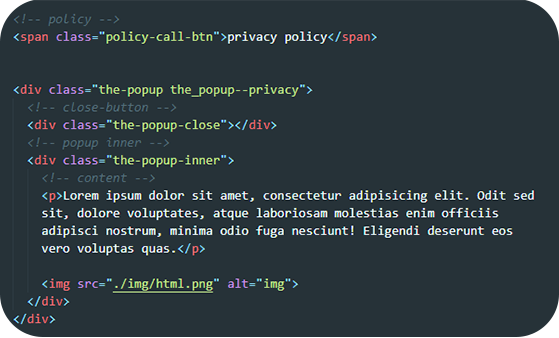
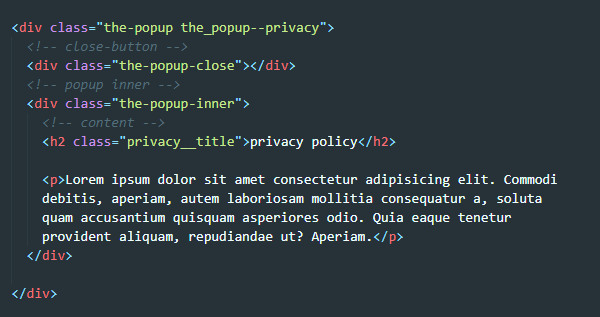
img

Changed region(s): [[0.0, 0.2555, 1.0, 1.0], [0.0, 0.0, 0.6691, 0.2271], [0.9428, 0.0, 1.0, 0.0852]]

diff --git a/#src/index.html b/#src/index.html
@@ -17,20 +17,21 @@
 
 
 			<!-- policy -->
+			
 			<span class="policy-call-btn">privacy policy</span>
+
 			<div class="the-popup the_popup--privacy">
 				<!-- close-button -->
 				<div class="the-popup-close"></div>
 				<!-- popup inner -->
 				<div class="the-popup-inner">
 					<!-- content -->
-					<p>Lorem ipsum dolor sit amet, consectetur adipisicing elit. Odit sed sit, dolore voluptates, atque laboriosam molestias enim officiis adipisci nostrum, minima odio fuga nesciunt! Eligendi deserunt eos vero voluptas quas.</p>
+					<h2 class="privacy__title">privacy policy</h2>
 
-					<img src="./img/html.png" alt="img">
+					<p>Lorem ipsum dolor sit amet consectetur adipisicing elit. Commodi debitis, aperiam, autem laboriosam mollitia consequatur a, soluta quam accusantium quisquam asperiores odio. Quia eaque tenetur provident aliquam, repudiandae ut? Aperiam.</p>
 				</div>
+
 			</div>
-
-
 
 		</div>
 	</main>
